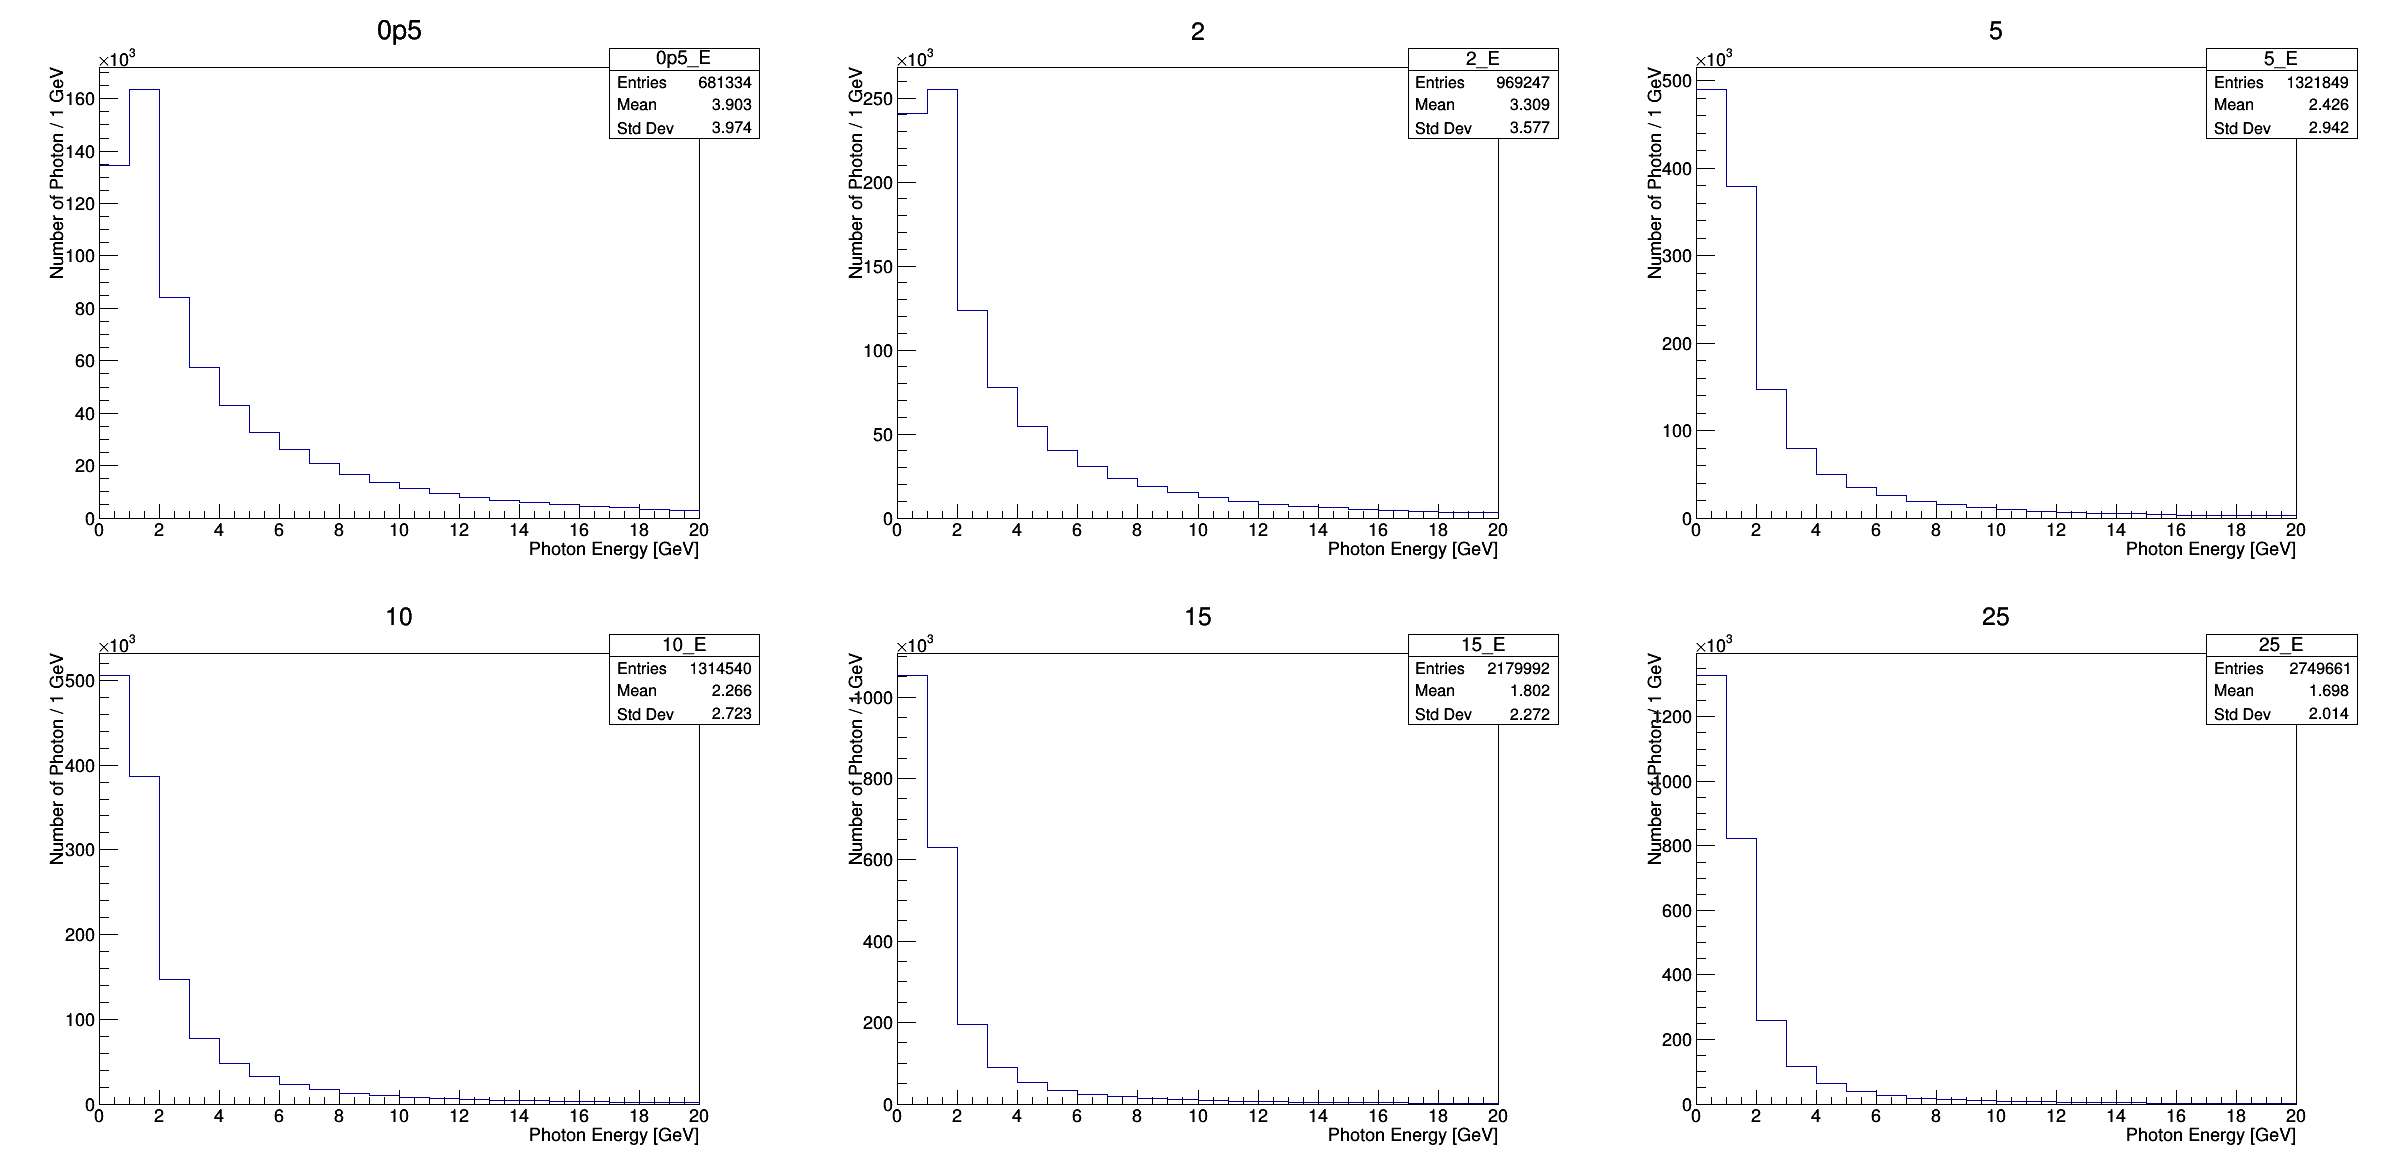
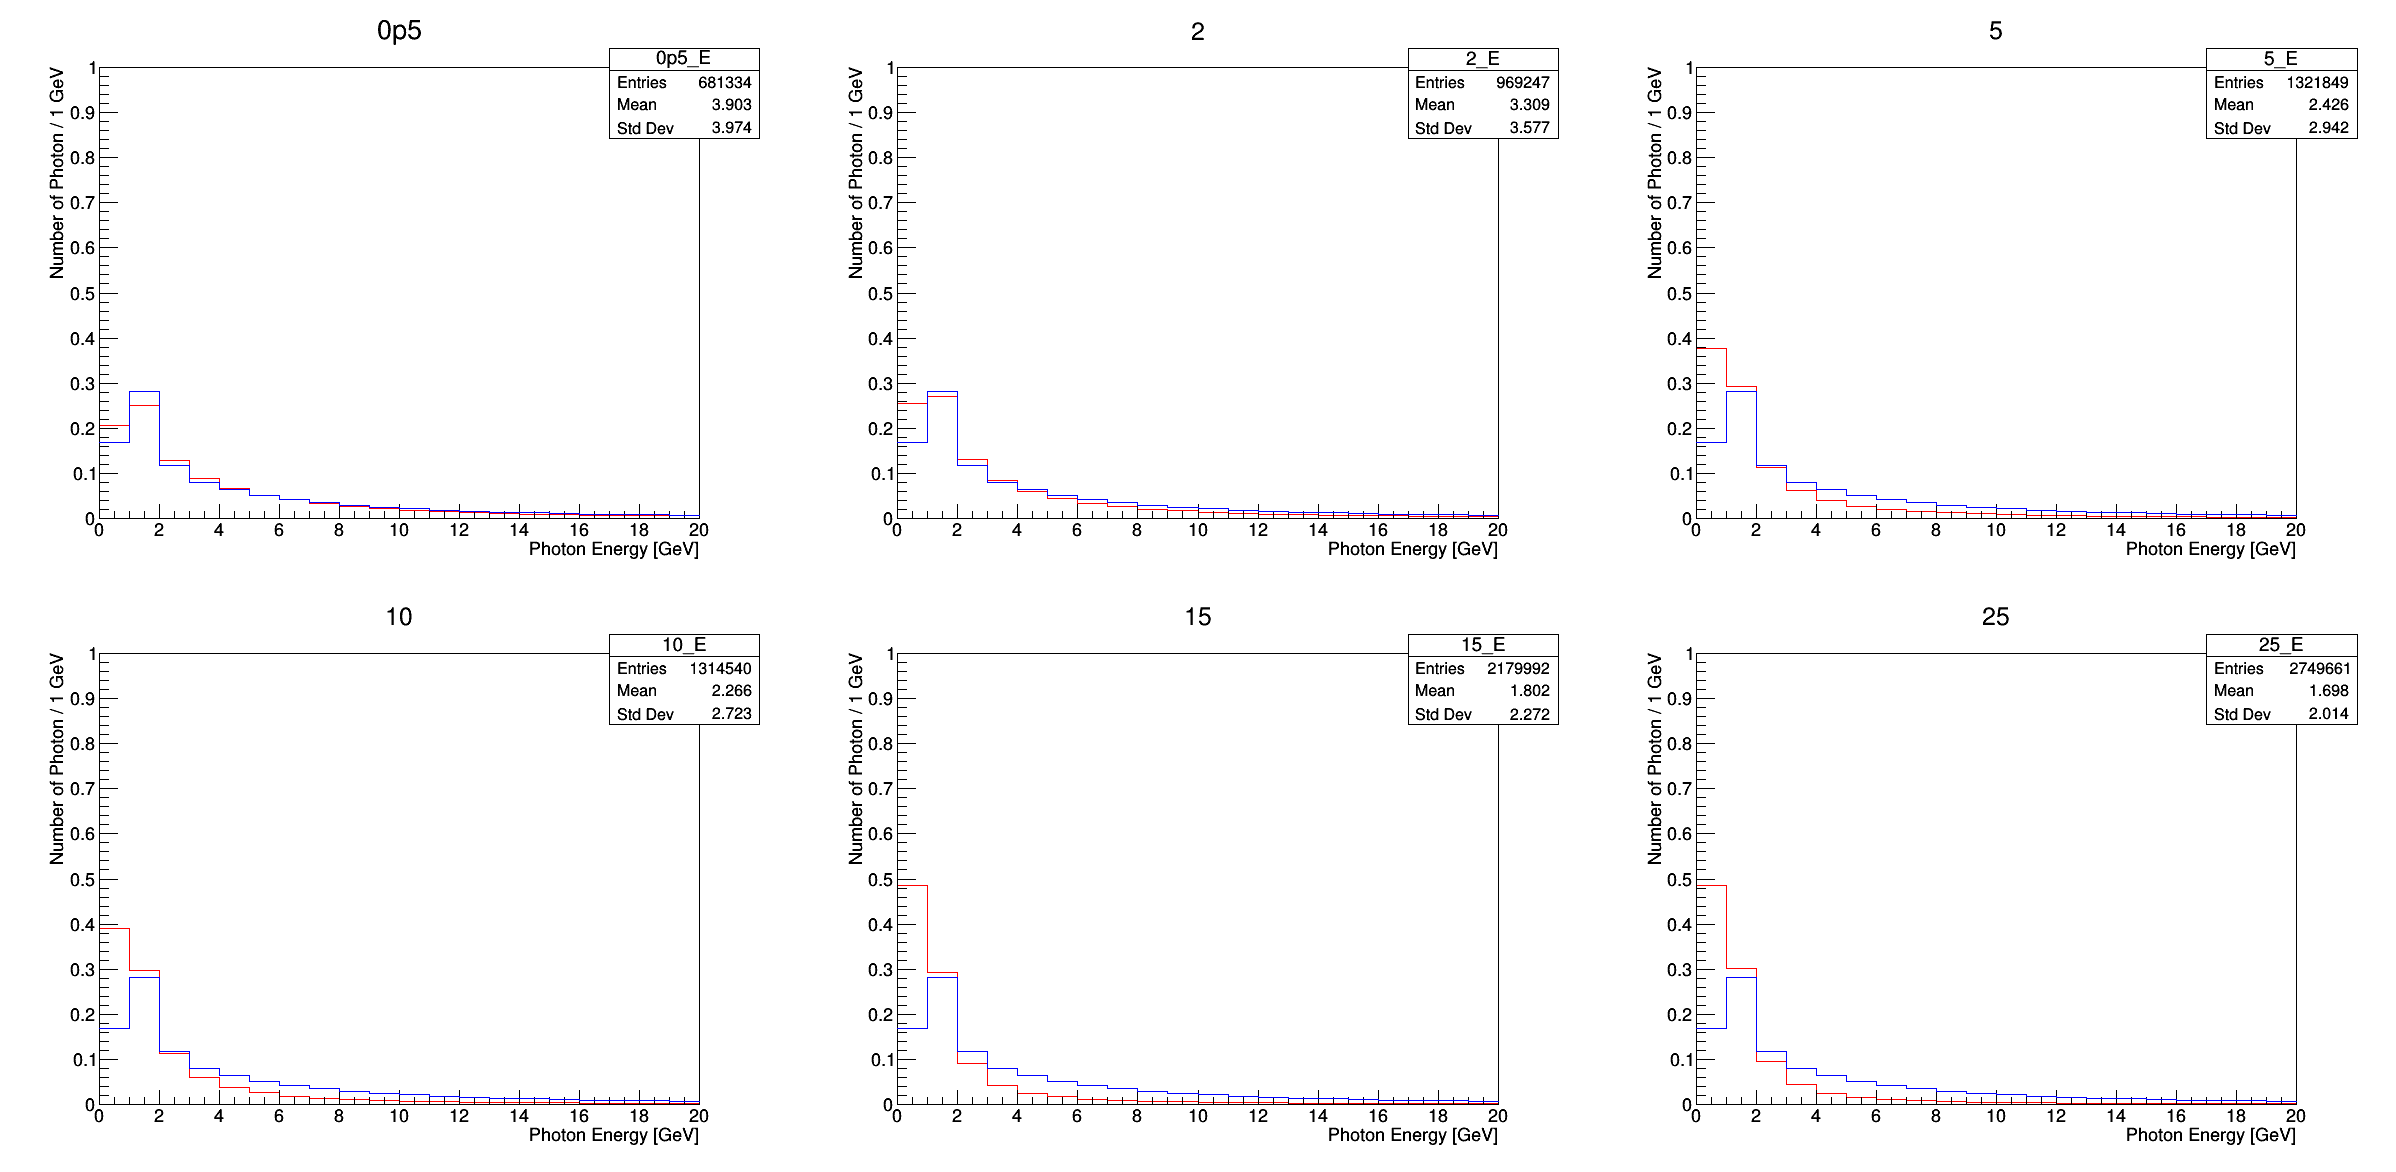
photon veto plots

diff --git a/scripts/check_reco_photon_kinematics.py b/scripts/check_reco_photon_kinematics.py
@@ -20,6 +20,10 @@ delphes_file_list = OrderedDict([
 #'ee2fermion_mutau.root',
 #'ee4lepton_muon.root'
 ])
+bkg_files = OrderedDict([
+('2f-mutau'   ,'ee2fermion_mutau_photon500.root'),
+('2f-e'       ,'ee2fermion_electron_photon500.root')
+])
 #delphes_file_list = ['eeTollS_0p5_inc.root']
 ntuple_path = '../ntuples'
 photon_PID = 22
@@ -50,19 +54,39 @@ canvas_E.Divide(num_hist_x, num_hist_y)
 canvas_eta.Divide(num_hist_x, num_hist_y)
 i_pad = 0
 evt_chain = OrderedDict()
+bkg_evt_chain = OrderedDict()
+bkg_pt_reco = ROOT.TH1D('pt_2f_bkg','pt_2f_bkg',20,0,20)
+bkg_E_reco = ROOT.TH1D('E_2f_bkg','E_2f_bkg',20,0,20)
+bkg_eta_reco = ROOT.TH1D('eta_2f_bkg','eta_2f_bkg',20,-5,5)
+for bkg_key, bkg_file in bkg_files.items(): 
+	bkg_file_path = delphes_path + bkg_file
+	bkg_evt_chain[bkg_key] = load_delphes_file(bkg_file_path, 'photon')
+	for ievt, evt in enumerate(bkg_evt_chain[bkg_key]):
+		for photon in evt.Photon:
+			bkg_pt_reco.Fill(photon.PT)
+			bkg_E_reco.Fill(photon.E)
+			bkg_eta_reco.Fill(photon.Eta)
+bkg_pt_reco.Scale(float(1.0/bkg_pt_reco.Integral()))
+bkg_E_reco.Scale(float(1.0/bkg_E_reco.Integral()))
+bkg_eta_reco.Scale(float(1.0/bkg_eta_reco.Integral()))
+bkg_pt_reco.SetLineColor(ROOT.kBlue)
+bkg_eta_reco.SetLineColor(ROOT.kBlue)
+bkg_E_reco.SetLineColor(ROOT.kBlue)
+
 for key, delphes_file in delphes_file_list.items():
 	i_pad += 1
 	delphes_file_path = delphes_path + delphes_file
 	evt_chain[key] = load_delphes_file(delphes_file_path, 'photon')
-	photon_pt_reco[key] = ROOT.TH1I(key+'_pt',key,20,0,20)
+	photon_pt_reco[key] = ROOT.TH1D(key+'_pt',key,20,0,20)
 	photon_pt_reco[key].GetYaxis().SetTitle("Number of Photon / 1 GeV")
 	photon_pt_reco[key].GetXaxis().SetTitle("Photon PT [GeV]")
-	photon_E_reco[key] = ROOT.TH1I(key+'_E',key,20,0,20)
+	photon_E_reco[key] = ROOT.TH1D(key+'_E',key,20,0,20)
 	photon_E_reco[key].GetYaxis().SetTitle("Number of Photon / 1 GeV")
 	photon_E_reco[key].GetXaxis().SetTitle("Photon Energy [GeV]")
-	photon_eta_reco[key] = ROOT.TH1I(key+'_eta',key,20,-5,5)
+	photon_eta_reco[key] = ROOT.TH1D(key+'_eta',key,20,-5,5)
 	photon_eta_reco[key].GetYaxis().SetTitle("Number of Photon / 0.5")
 	photon_eta_reco[key].GetXaxis().SetTitle("Photon Eta")
+
 	for ievt, evt in enumerate(evt_chain[key]):
 		for photon in evt.Photon:
 			photon_E_reco[key].Fill(photon.E)
@@ -71,11 +95,26 @@ for key, delphes_file in delphes_file_list.items():
 		if (ievt + 1) % 10000 == 0:
 			print ievt + 1, 'have been processed'
 	canvas_E.cd(i_pad)
+	photon_E_reco[key].Scale(float(1.0/photon_E_reco[key].Integral()))
+	photon_E_reco[key].SetLineColor(ROOT.kRed)
+	photon_E_reco[key].SetMaximum(1)
 	photon_E_reco[key].Draw()
+	bkg_E_reco.Draw("same")
+	ROOT.gPad.Update()
 	canvas_eta.cd(i_pad)
+	photon_eta_reco[key].Scale(float(1.0/photon_eta_reco[key].Integral()))
+	photon_eta_reco[key].SetLineColor(ROOT.kRed)
+	photon_eta_reco[key].SetMaximum(1)
 	photon_eta_reco[key].Draw()
+	bkg_eta_reco.Draw("same")
+	ROOT.gPad.Update()
 	canvas_pt.cd(i_pad)
+	photon_pt_reco[key].Scale(float(1.0/photon_pt_reco[key].Integral()))
+	photon_pt_reco[key].SetLineColor(ROOT.kRed)
+	photon_pt_reco[key].SetMaximum(1)
 	photon_pt_reco[key].Draw()
+	bkg_pt_reco.Draw("same")
+	ROOT.gPad.Update()
 canvas_E.Print("../plots/signal_RECO_photon_E_dist.png")
 canvas_pt.Print("../plots/signal_RECO_photon_pt_dist.png")
 canvas_eta.Print("../plots/signal_RECO_photon_eta_dist.png")
